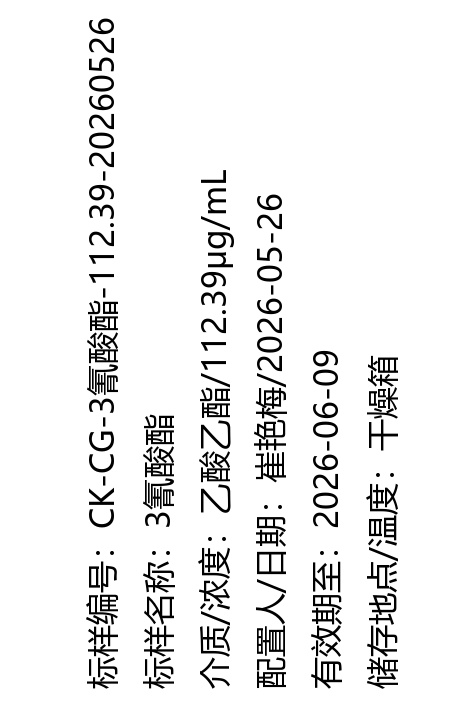
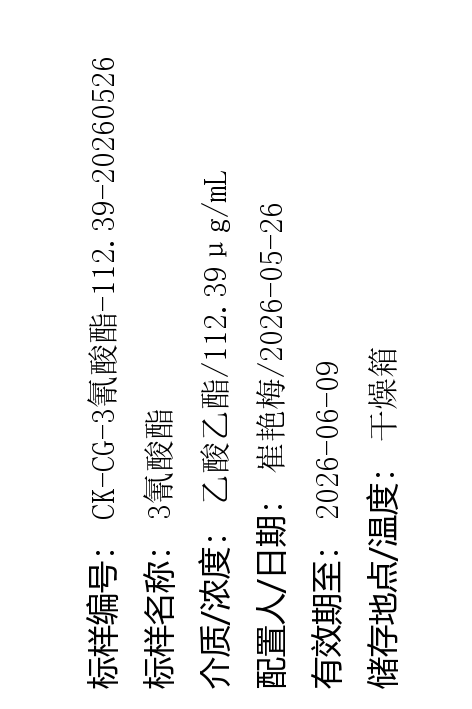
标签标题字体修改

diff --git a/login_html.py b/login_html.py
@@ -3364,9 +3364,9 @@ def lims_print_label():
 
         # 字体（Windows 系统字体）
         system_font_dirs = ['C:/Windows/Fonts', 'C:\\Windows\\Fonts']
-        def load_font(size):
+        def load_font(size, names):
             for d in system_font_dirs:
-                for name in ['msyh.ttc', 'msyhbd.ttc', 'simhei.ttf', 'simsun.ttc']:
+                for name in names:
                     fp = os.path.join(d, name)
                     if os.path.exists(fp):
                         try:
@@ -3379,7 +3379,11 @@ def lims_print_label():
         # 预览：709×472（横版可读），打印：472×709（竖版旋转）
         PW, PH = 709, 472
 
-        font_normal = load_font(32)
+        font_title = load_font(32, ['msyh.ttc', 'msyhbd.ttc', 'simhei.ttf'])
+        font_value = load_font(32, ['simsun.ttc', 'simsun.ttf'])
+        asc_t, _ = font_title.getmetrics()
+        asc_v, _ = font_value.getmetrics()
+        value_y_offset = asc_t - asc_v
 
         img_preview = Image.new('RGB', (PW, PH), 'white')
         draw = ImageDraw.Draw(img_preview)
@@ -3387,58 +3391,54 @@ def lims_print_label():
         pad = 20
         max_text_w = PW - pad - 10
 
-        # 自动换行，续行缩进到"："之后
-        def wrap_text(text, font, max_w):
-            colon_pos = text.find('：')
-            if colon_pos < 0:
-                colon_pos = text.find(':')
-            indent = draw.textlength(text[:colon_pos + 1], font=font) if colon_pos >= 0 else 0
-            rest_max = max_w - indent
-            if draw.textlength(text, font=font) <= max_w:
-                return [(text, 0)]
-            lines = []
-            cur = ''
-            first = True
-            cur_max = max_w
-            for ch in text:
-                if draw.textlength(cur + ch, font=font) > cur_max:
-                    if cur:
-                        lines.append((cur, 0 if first else indent))
-                    cur = ch
-                    first = False
-                    cur_max = rest_max
-                else:
-                    cur += ch
-            if cur:
-                lines.append((cur, 0 if first else indent))
-            return lines or [('', 0)]
-
         label_items = [
-            f"标样编号：{solution_code}",
-            f"标样名称：{solution_name}",
-            f"介质/浓度：{medium}/{concentration}" if medium else f"浓度：{concentration}",
-            f"配置人/日期：{creator_name}/{configure_date}",
-            f"有效期至：{validity_date}",
-            f"储存地点/温度：{storage_condition}",
+            ('标样编号', solution_code),
+            ('标样名称', solution_name),
+            ('介质/浓度', f'{medium}/{concentration}' if medium else concentration),
+            ('配置人/日期', f'{creator_name}/{configure_date}'),
+            ('有效期至', validity_date),
+            ('储存地点/温度', storage_condition),
         ]
 
+        # 自动换行（内容部分可能超宽）
         all_lines = []
-        for item in label_items:
-            wrapped = wrap_text(item, font_normal, max_text_w)
-            for j, (text, ind) in enumerate(wrapped):
-                all_lines.append((text, ind, j > 0))
+        for title, value in label_items:
+            label_prefix = title + '： '
+            prefix_w = draw.textlength(label_prefix, font=font_title)
+            value_max_w = max_text_w - prefix_w
+            if draw.textlength(value, font=font_value) <= value_max_w:
+                all_lines.append((label_prefix, value, 0, False))
+            else:
+                # 内容超宽，首行标题+部分内容，续行缩进
+                cur = ''
+                first = True
+                for ch in value:
+                    if draw.textlength(cur + ch, font=font_value) > (value_max_w if first else max_text_w):
+                        if cur:
+                            all_lines.append((label_prefix if first else '', cur, 0 if first else prefix_w, not first))
+                        cur = ch
+                        first = False
+                    else:
+                        cur += ch
+                if cur:
+                    all_lines.append((label_prefix if first else '', cur, 0 if first else prefix_w, not first))
 
         line_gap = 56
         wrap_gap = 40
 
         # 计算总高度，垂直居中
-        total_h = sum(wrap_gap if c else line_gap for _, _, c in all_lines)
-        total_h -= wrap_gap if all_lines[-1][2] else line_gap
+        total_h = sum(wrap_gap if c else line_gap for _, _, _, c in all_lines)
+        total_h -= wrap_gap if all_lines[-1][3] else line_gap
         total_h += 32
         y = max(pad, (PH - total_h) / 2)
 
-        for text, indent, is_cont in all_lines:
-            draw.text((pad + indent, y), text, fill='black', font=font_normal)
+        for label_prefix, value, indent, is_cont in all_lines:
+            if label_prefix:
+                draw.text((pad, y), label_prefix, fill='black', font=font_title)
+                tw = draw.textlength(label_prefix, font=font_title)
+            else:
+                tw = 0
+            draw.text((pad + tw + indent, y + value_y_offset), value, fill='black', font=font_value)
             y += wrap_gap if is_cont else line_gap
 
         # 旋转用于打印
